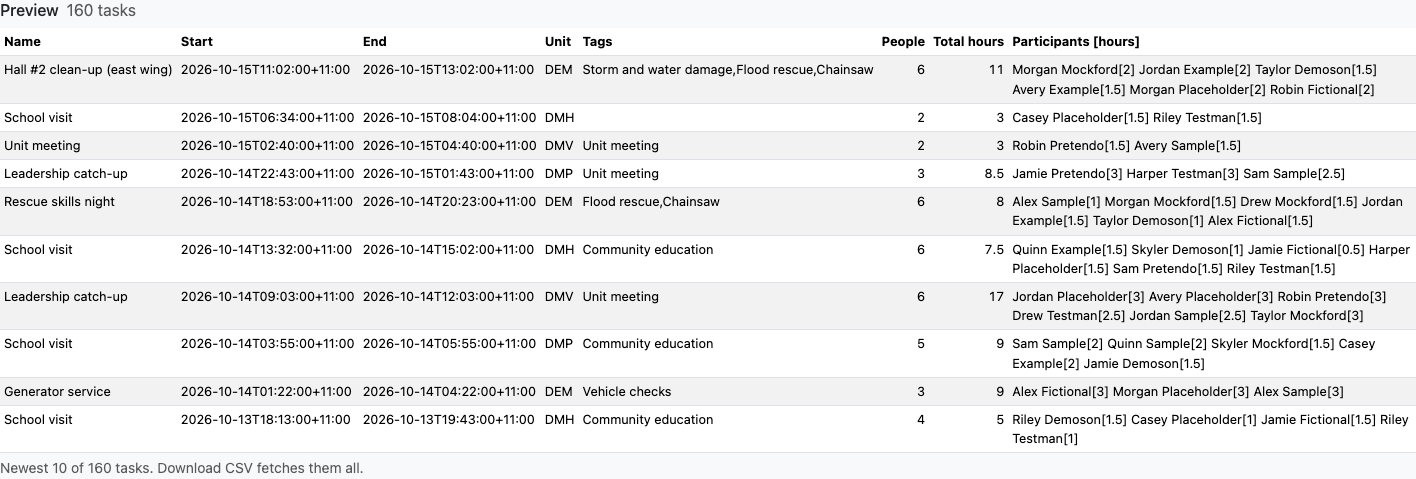
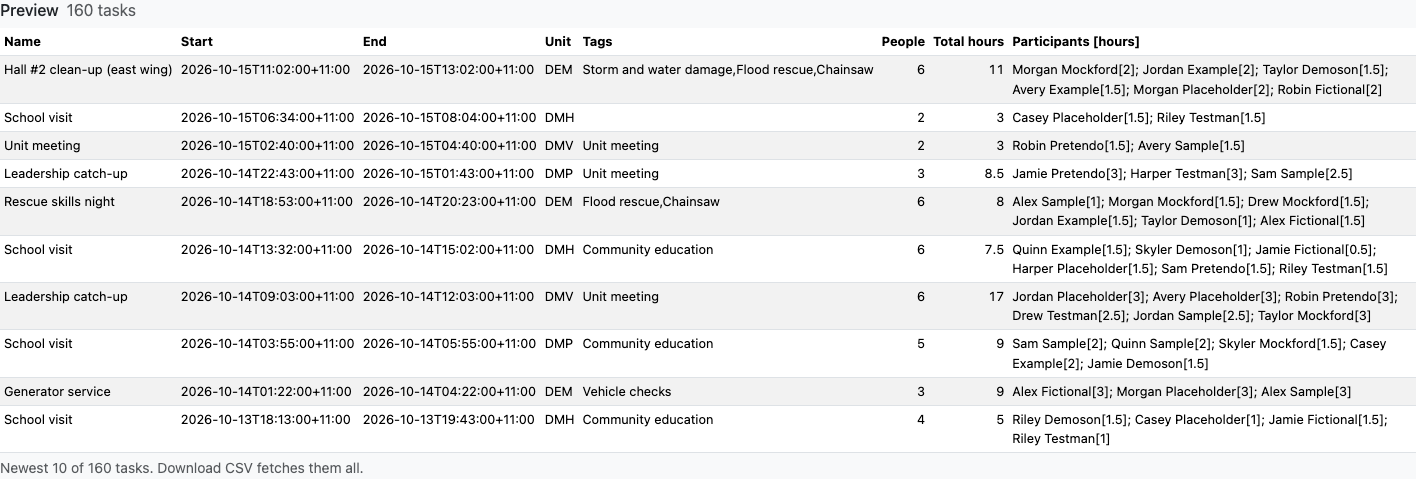
NITC Export: separate participants with semicolons (Name[hours]; Name[hours])
A space alone couldn't split the list, as names have spaces in them.

diff --git a/src/pages/nitcexport/data/reports.js b/src/pages/nitcexport/data/reports.js
@@ -48,8 +48,9 @@ const personName = (person) => person?.FullName || [person?.FirstName, person?.L
 
 /**
  * Activity List rows, in the order Beacon sent the tasks (newest first).
- * Participants are written `Name[hours]` with a space between each (PR
- * #608: square brackets, as names can have round ones in them).
+ * Participants are written `Name[hours]` (PR #608: square brackets, as
+ * names can have round ones in them), separated by "; " so a spreadsheet
+ * can split them (names have spaces in them, so a space alone can't).
  *
  * @param {object[]} tasks
  * @returns {Array<Array<string|number>>}  cells in ACTIVITY_HEADER order
@@ -65,7 +66,7 @@ export function activityRows(tasks) {
       tagNames(task).join(','),
       people.length,
       roundHours(people.reduce((sum, p) => sum + p.hours, 0)),
-      people.map((p) => `${p.name}[${p.hours}]`).join(' '),
+      people.map((p) => `${p.name}[${p.hours}]`).join('; '),
     ];
   });
 }

diff --git a/src/pages/nitcexport/data/reports.test.js b/src/pages/nitcexport/data/reports.test.js
@@ -37,7 +37,7 @@ describe('participantHours', () => {
 });
 
 describe('activityRows', () => {
-  it('writes the old columns, ISO times and Name[hours] participants (PR #608)', () => {
+  it('writes the old columns, ISO times and Name[hours] participants (PR #608) split by semicolons', () => {
     const rows = activityRows([task({
       Name: 'Hall #2 clean (east)',
       Tags: [{ Name: 'Training' }, { Name: 'Maintenance' }],
@@ -45,7 +45,7 @@ describe('activityRows', () => {
     })]);
     expect(rows).toEqual([[
       'Hall #2 clean (east)', '2026-10-20T18:00:00+11:00', '2026-10-20T21:00:00+11:00', 'DEM',
-      'Training,Maintenance', 2, 5.5, 'Alex Sample[2.5] Sam Example[3]',
+      'Training,Maintenance', 2, 5.5, 'Alex Sample[2.5]; Sam Example[3]',
     ]]);
     expect(ACTIVITY_HEADER).toHaveLength(rows[0].length);
   });

diff --git a/docs/whats-new/index.md b/docs/whats-new/index.md
@@ -62,7 +62,7 @@ The home page shows the first three `##` entries, so keep the title short.
 
 - **NITC Export, rebuilt.** The **Export (Filtered)** button on Beacon's NITC screen opens it in a new tab with the screen's filters. Same two reports, Activity List and Member List, with a cleaner layout that follows your computer's light or dark mode, and a header coloured by Beacon as in LAD. See the [NITC Export guide](https://lighthouse.ses.nsw.gov.au/guides/nitc/).
 - **Preview before you download.** The page shows the report for the newest 10 tasks and how many tasks match. **Download CSV** then fetches every task, with a ring counting them and a **Cancel** button. Your report choice is remembered. See [Preview](https://lighthouse.ses.nsw.gov.au/guides/nitc/#preview).
-- **Participants are written with their hours in square brackets**, e.g. *Alex Sample[2.5]*, so a name with round brackets in it can't be mistaken for hours. If a spreadsheet or Power Query step reads the old *Alex Sample(2.5)* format, it needs updating. See [Activity List columns](https://lighthouse.ses.nsw.gov.au/guides/nitc/#activity-list-columns).
+- **Participants are written with their hours in square brackets and separated by semicolons**, e.g. *Alex Sample[2.5]; Sam Example[3]*, so a name with round brackets in it can't be mistaken for hours, and a spreadsheet can split the list on *;*. If a spreadsheet or Power Query step reads the old *Alex Sample(2.5) Sam Example(3)* format, it needs updating. See [Activity List columns](https://lighthouse.ses.nsw.gov.au/guides/nitc/#activity-list-columns).
 - **The Member List has a TotalHours column**, puts hours from untagged tasks under **No tag** (they were left out before), lists the tags A to Z, and gives two members with the same name a row each (they were added together before). See [Member List columns](https://lighthouse.ses.nsw.gov.au/guides/nitc/#member-list-columns).
 - **Times are in ISO 8601 format** (e.g. *2026-10-15T09:41:00+11:00*), instead of the long *Thu Oct 15 2026 09:41:00 GMT+1100 (…)* text. See [Hours and times](https://lighthouse.ses.nsw.gov.au/guides/nitc/#hours-and-times).
 - Task names keep any *#* in them (it used to be removed), and a member with no sign-off time gets the task's end time instead of a nonsense number of hours.

diff --git a/docs/nitc/index.md b/docs/nitc/index.md
@@ -66,7 +66,7 @@ Click **Download CSV**. The page fetches every matching task from Beacon (100 at
 | **Tags** | The task's tags, with commas between them |
 | **TotalParticipants** | How many members took part |
 | **TotalHours** | Everyone's hours added up |
-| **Participants** | Each member with their hours in square brackets, e.g. *Alex Sample[2.5] Sam Example[3]* |
+| **Participants** | Each member with their hours in square brackets, separated by semicolons, e.g. *Alex Sample[2.5]; Sam Example[3]* |
 
 ### Member List columns
 
